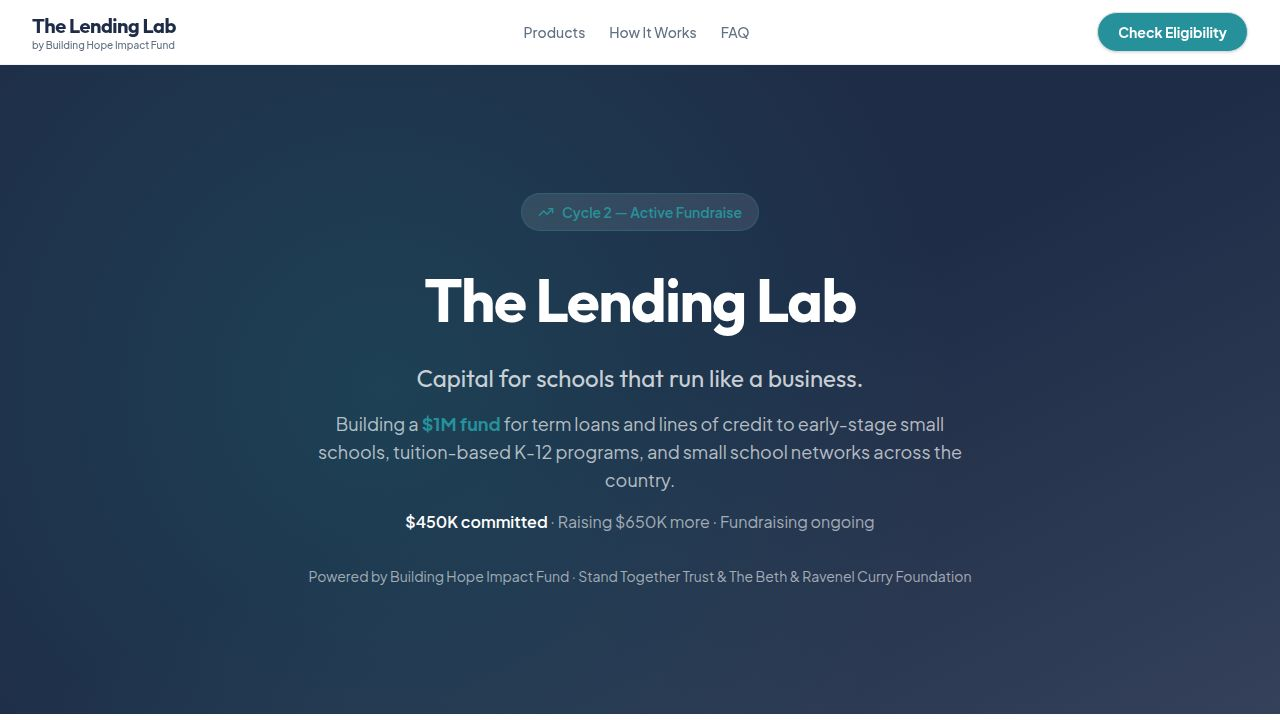
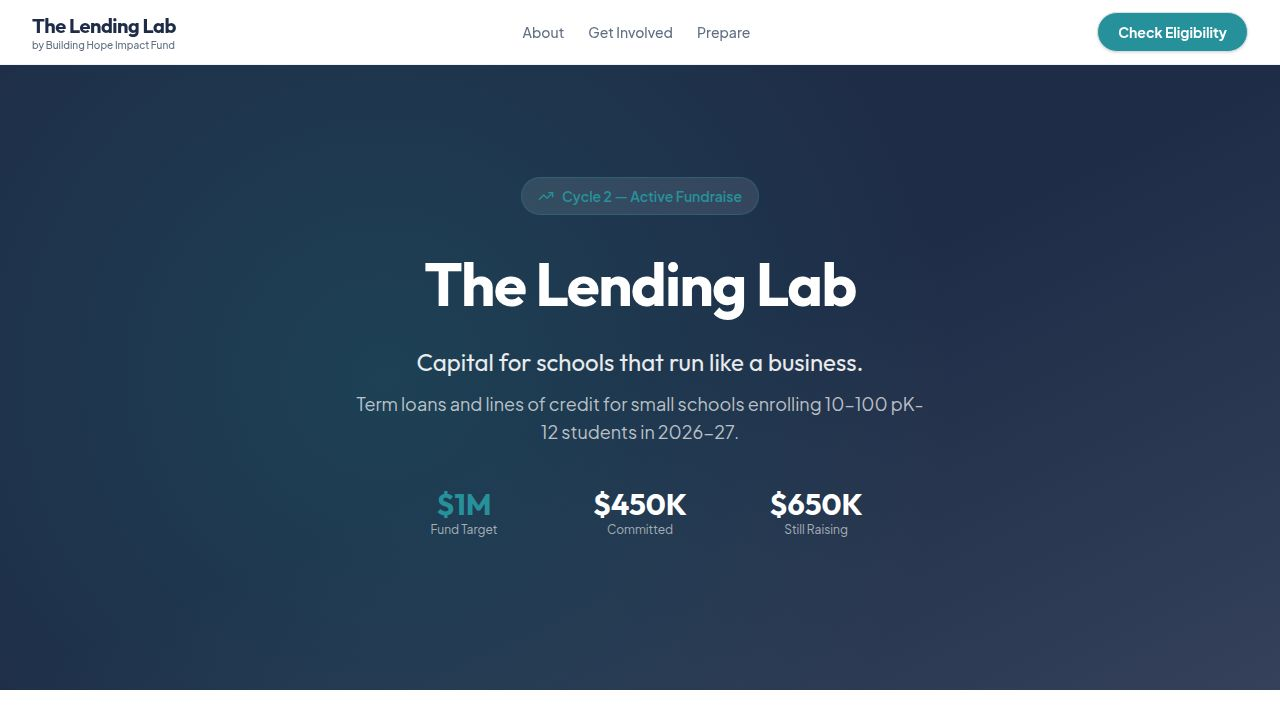
Update website with mission-focused language and navigation
Updates meta tags, header navigation, and homepage content to reflect a more mission-driven tone. Introduces a `US_ONLY` rule and adjusts links for pre-launch mode.

Replit-Commit-Author: Agent
Replit-Commit-Session-Id: cc8e420b-9702-4c29-b2f3-55bd4dc9385b
Replit-Commit-Checkpoint-Type: full_checkpoint
Replit-Commit-Event-Id: 9425be98-d5e7-416f-95e8-64971552eb42
Replit-Commit-Screenshot-Url: https://storage.googleapis.com/screenshot-production-us-central1/45903f48-40c0-4523-9b61-59b5749d2b87/cc8e420b-9702-4c29-b2f3-55bd4dc9385b/9DB0986
Replit-Helium-Checkpoint-Created: true

diff --git a/client/src/pages/Home.tsx b/client/src/pages/Home.tsx
@@ -177,10 +177,10 @@ function PreLaunchLanding() {
               The Lending Lab
             </h1>
             <p className="text-xl md:text-2xl text-white/90 mb-3 font-display">
-              Capital for schools that run like a business.
+              Loan capital for the schools banks overlook.
             </p>
             <p className="text-base md:text-lg text-white/70 max-w-xl mx-auto mb-10">
-              Term loans and lines of credit for small schools enrolling 10–100 pK-12 students in 2026-27.
+              Philanthropically fueled term loans and lines of credit for small schools across the United States enrolling 10–100 pK-12 students.
             </p>
 
             <div className="grid grid-cols-3 gap-4 max-w-lg mx-auto mb-10">
@@ -219,7 +219,21 @@ function PreLaunchLanding() {
           </div>
         </section>
 
-        <section className="py-16 md:py-20 bg-white">
+        <section id="about" className="py-16 md:py-20 bg-muted/20">
+          <div className="container mx-auto px-4 sm:px-6 lg:px-8 max-w-3xl text-center space-y-6">
+            <h2 className="text-2xl md:text-3xl font-display font-bold text-primary" data-testid="text-about-title">
+              Why The Lending Lab Exists
+            </h2>
+            <p className="text-muted-foreground leading-relaxed">
+              Small schools — the ones serving 10 to 100 students — are transforming education across the country. But traditional banks won't lend to them. They're too new, too small, or too unconventional to qualify for a standard business loan.
+            </p>
+            <p className="text-muted-foreground leading-relaxed">
+              The Lending Lab changes that. Administered by Building Hope Impact Fund and fueled by the generosity of Stand Together Trust and The Beth & Ravenel Curry Foundation, we offer below-market loans so these schools can open their doors, equip their classrooms, and grow with confidence.
+            </p>
+          </div>
+        </section>
+
+        <section id="get-involved" className="py-16 md:py-20 bg-white">
           <div className="container mx-auto px-4 sm:px-6 lg:px-8 max-w-4xl">
             <div className="grid md:grid-cols-2 gap-10">
               <Card className="shadow-lg border-0 bg-muted/20" data-testid="card-philanthropists">
@@ -229,7 +243,7 @@ function PreLaunchLanding() {
                   </div>
                   <h2 className="text-xl font-display font-bold text-primary">For Philanthropists</h2>
                   <p className="text-muted-foreground text-sm leading-relaxed">
-                    Philanthropy is what allows us to offer below-market interest rates and build lending infrastructure for small schools. We're raising ${(RULES.FUNDRAISE_GOAL / 1000).toFixed(0)}K more to reach our ${(RULES.FUND_TARGET / 1000000).toFixed(0)}M goal.
+                    Your support helps schools that traditional lenders won't touch get the capital they need to open their doors. We're raising ${(RULES.FUNDRAISE_GOAL / 1000).toFixed(0)}K more to reach our ${(RULES.FUND_TARGET / 1000000).toFixed(0)}M Cycle {RULES.CYCLE} goal.
                   </p>
                   <a
                     href="mailto:aserafin@bhope.org"
@@ -250,7 +264,7 @@ function PreLaunchLanding() {
                   </div>
                   <h2 className="text-xl font-display font-bold text-primary">For Schools</h2>
                   <p className="text-muted-foreground text-sm leading-relaxed">
-                    Want to know when the loan fund opens? Fill out this quick form and we'll notify you.
+                    Opening or growing a small school? We're building a loan fund designed for you. Join the waitlist and we'll let you know when applications open.
                   </p>
 
                   {submitted ? (
@@ -313,7 +327,7 @@ function PreLaunchLanding() {
           </div>
         </section>
 
-        <section className="py-16 bg-muted/30">
+        <section id="documents" className="py-16 bg-muted/30">
           <div className="container mx-auto px-4 sm:px-6 lg:px-8 max-w-2xl text-center space-y-8">
             <div className="inline-flex items-center gap-2 text-secondary font-semibold">
               <FileText className="w-5 h-5" />

diff --git a/client/src/components/layout/Header.tsx b/client/src/components/layout/Header.tsx
@@ -1,5 +1,6 @@
 import { Link, useLocation } from "wouter";
 import { Button } from "@/components/ui/button";
+import { RULES } from "@shared/rules";
 
 export function Header() {
   const [location] = useLocation();
@@ -14,11 +15,19 @@ export function Header() {
         </Link>
         <nav className="hidden md:flex gap-6 items-center">
           {isHome ? (
-            <>
-              <a href="#products" className="text-sm font-medium text-muted-foreground hover:text-primary transition-colors">Products</a>
-              <a href="#how-it-works" className="text-sm font-medium text-muted-foreground hover:text-primary transition-colors">How It Works</a>
-              <a href="#faq" className="text-sm font-medium text-muted-foreground hover:text-primary transition-colors">FAQ</a>
-            </>
+            RULES.APPLICATIONS_OPEN ? (
+              <>
+                <a href="#products" className="text-sm font-medium text-muted-foreground hover:text-primary transition-colors">Products</a>
+                <a href="#how-it-works" className="text-sm font-medium text-muted-foreground hover:text-primary transition-colors">How It Works</a>
+                <a href="#faq" className="text-sm font-medium text-muted-foreground hover:text-primary transition-colors">FAQ</a>
+              </>
+            ) : (
+              <>
+                <a href="#about" className="text-sm font-medium text-muted-foreground hover:text-primary transition-colors">About</a>
+                <a href="#get-involved" className="text-sm font-medium text-muted-foreground hover:text-primary transition-colors">Get Involved</a>
+                <a href="#documents" className="text-sm font-medium text-muted-foreground hover:text-primary transition-colors">Prepare</a>
+              </>
+            )
           ) : (
             <>
               <Link href="/" className="text-sm font-medium text-muted-foreground hover:text-primary transition-colors">Home</Link>

diff --git a/client/index.html b/client/index.html
@@ -4,14 +4,14 @@
     <meta charset="UTF-8" />
     <meta name="viewport" content="width=device-width, initial-scale=1.0, maximum-scale=1" />
 
-    <meta property="og:title" content="The Lending Lab | Cycle 2 — Capital for Schools That Run Like a Business" />
-    <meta property="og:description" content="Term loans up to $50K and lines of credit up to $100K for small schools enrolling 10–100 pK-12 students. Powered by Building Hope Impact Fund." />
+    <meta property="og:title" content="The Lending Lab | Cycle 2 — Loan Capital for the Schools Banks Overlook" />
+    <meta property="og:description" content="Philanthropically fueled term loans and lines of credit for small schools enrolling 10–100 pK-12 students across the United States. A Building Hope Impact Fund program." />
     <meta property="og:type" content="website" />
     <meta property="og:image" content="https://replit.com/public/images/opengraph.png" />
     <meta name="twitter:card" content="summary_large_image" />
     <meta name="twitter:site" content="@replit" />
     <meta name="twitter:title" content="The Lending Lab | Cycle 2" />
-    <meta name="twitter:description" content="Term loans up to $50K and lines of credit up to $100K for small schools enrolling 10–100 pK-12 students." />
+    <meta name="twitter:description" content="Philanthropically fueled term loans and lines of credit for small schools enrolling 10–100 pK-12 students across the United States." />
     <meta name="twitter:image" content="https://replit.com/public/images/opengraph.png" />
 
     <link rel="icon" type="image/png" href="/favicon.png" />

diff --git a/shared/content.ts b/shared/content.ts
@@ -3,11 +3,11 @@ import { RULES } from "./rules";
 export const CONTENT = {
   meta: {
     title: "The Lending Lab | Cycle 2",
-    description: "Capital for schools that run like a business. Term loans up to $50K and lines of credit up to $100K for small schools enrolling 10–100 pK-12 students.",
+    description: "Philanthropically fueled term loans and lines of credit for small schools enrolling 10–100 pK-12 students across the United States.",
   },
   hero: {
     badge: `Powered by ${RULES.PHILANTHROPY.partners.join(" & ")}`,
-    headline: "Capital for schools that run like a business.",
+    headline: "Loan capital for the schools banks overlook.",
     subhead: `Cycle 2: Building a $${(RULES.FUND_TARGET / 1000000).toFixed(0)}M fund. Term loans and revolving lines of credit for small schools enrolling 10–100 pK-12 students.`,
     cta1: "Check Eligibility",
     cta2: "Pre-qualify in 3 minutes",

diff --git a/shared/rules.ts b/shared/rules.ts
@@ -48,6 +48,8 @@ export const RULES = {
     partners: ["Stand Together Trust", "The Beth & Ravenel Curry Foundation"],
   },
 
+  US_ONLY: true,
+
   APPLICATIONS_OPEN: false,
   APPLICATIONS_OPEN_DATE: "May 6, 2026",
   APPLICATIONS_CLOSE_DATE: "November 6, 2026",
